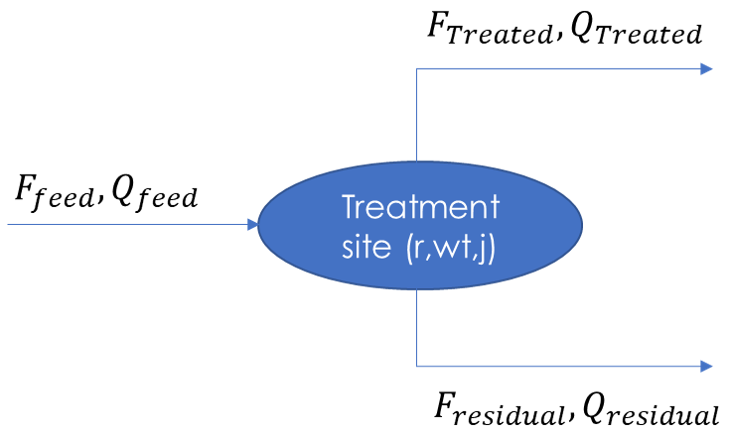
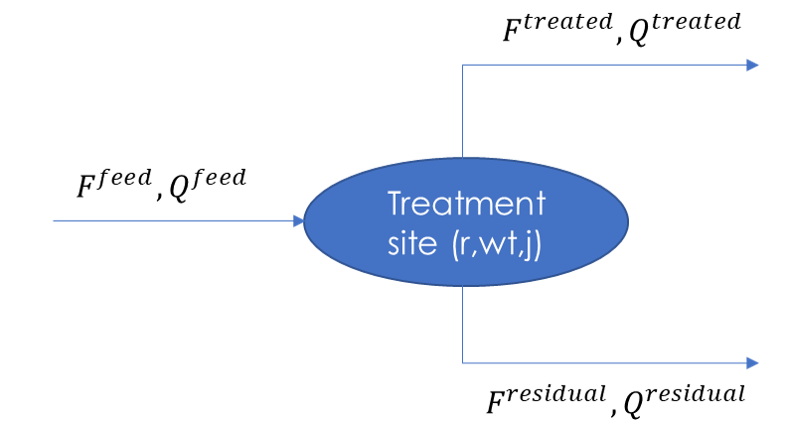
modified figure

diff --git a/docs/model_library/water_treatment/index.rst b/docs/model_library/water_treatment/index.rst
@@ -65,7 +65,7 @@ The overall water and constituent balance equations for water treatment systems 
   
 
 .. figure:: ../../img/treatmentpic.png
-    :width: 400
+    :width: 450
     :align: center
 
     Figure 1. Treatment plant schematic
@@ -173,7 +173,7 @@ Treatment costs can be incorporated into PARETO with three methods:
 +-------------------------------------------------------------------------------+-----------------+--------------------------------+-------------------------------------------+--------------------------------------------+-------------------------------------------+-------------------------------------------+-------------------------------------------+--------------------------------------------+--------------------------------------------+--------------------------------------------+--------------------------------------------------------+--------------------------------------------+--------------------------------------------+--------------------------------------------------+--------------------------------------------+
 | Water recovery [%]                                                            | Varies          | 82                             | 82                                        | varies                                     | 74                                        | 74                                        | 74                                        | 74                                         | 74                                         | varies                                     | 75                                                     | 75                                         | 74                                         | 74                                               | 74                                         |
 +-------------------------------------------------------------------------------+-----------------+--------------------------------+-------------------------------------------+--------------------------------------------+-------------------------------------------+-------------------------------------------+-------------------------------------------+--------------------------------------------+--------------------------------------------+--------------------------------------------+--------------------------------------------------------+--------------------------------------------+--------------------------------------------+--------------------------------------------------+--------------------------------------------+
-| Inlet salinity [mg/ LTDS]                                                     | N/A             | 70                             | 70                                        |varies                                      | 100                                       | 100                                       | 100                                       | 100                                        | 100                                        | varies                                     | 70                                                     | 70                                         | 100                                        | 100                                              | 100                                        |
+| Inlet salinity [mg/L TDS]                                                     | N/A             | 70                             | 70                                        |varies                                      | 100                                       | 100                                       | 100                                       | 100                                        | 100                                        | varies                                     | 70                                                     | 70                                         | 100                                        | 100                                              | 100                                        |
 +-------------------------------------------------------------------------------+-----------------+--------------------------------+-------------------------------------------+--------------------------------------------+-------------------------------------------+-------------------------------------------+-------------------------------------------+--------------------------------------------+--------------------------------------------+--------------------------------------------+--------------------------------------------------------+--------------------------------------------+--------------------------------------------+--------------------------------------------------+--------------------------------------------+
 | Brine salinity [mg/L TDS]                                                     | N/A             | 300000                         | 300000                                    | 300000                                     | 300000                                    | 300000                                    | 300000                                    | 300000                                     | 300000                                     | 230000                                     | 230000                                                 | 300000                                     | 300000                                     | 300000                                           |300000                                      |
 +-------------------------------------------------------------------------------+-----------------+--------------------------------+-------------------------------------------+--------------------------------------------+-------------------------------------------+-------------------------------------------+-------------------------------------------+--------------------------------------------+--------------------------------------------+--------------------------------------------+--------------------------------------------------------+--------------------------------------------+--------------------------------------------+--------------------------------------------------+--------------------------------------------+
@@ -798,4 +798,4 @@ References
 ---------------
 
 .. [1] Von Sperling, M., Verbyla, M. E., & Oliveira, S. M. (2020). Assessment of treatment plant performance and water quality data: a guide for students, researchers and practitioners. IWA publishing.
-.. [2] Onishi, V. C., Carrero-Parreño, A., Reyes-Labarta, J. A., Ruiz-Femenia, R., Salcedo-Díaz, R., Fraga, E. S., & Caballero, J. A. (2017). Shale gas flowback water desalination: Single vs multiple-effect evaporation with vapor compression cycle and thermal integration. Desalination, 404, 230-248.
+.. [2] Onishi, V. C., Carrero-Parreño, A., Reyes-Labarta, J. A., Ruiz-Femenia, R., Salcedo-Díaz, R., Fraga, E. S., & Caballero, J. A. (2017). Shale gas flowback water desalination: Single vs multiple-effect evaporation with vapor recompression cycle and thermal integration. Desalination, 404, 230-248.
